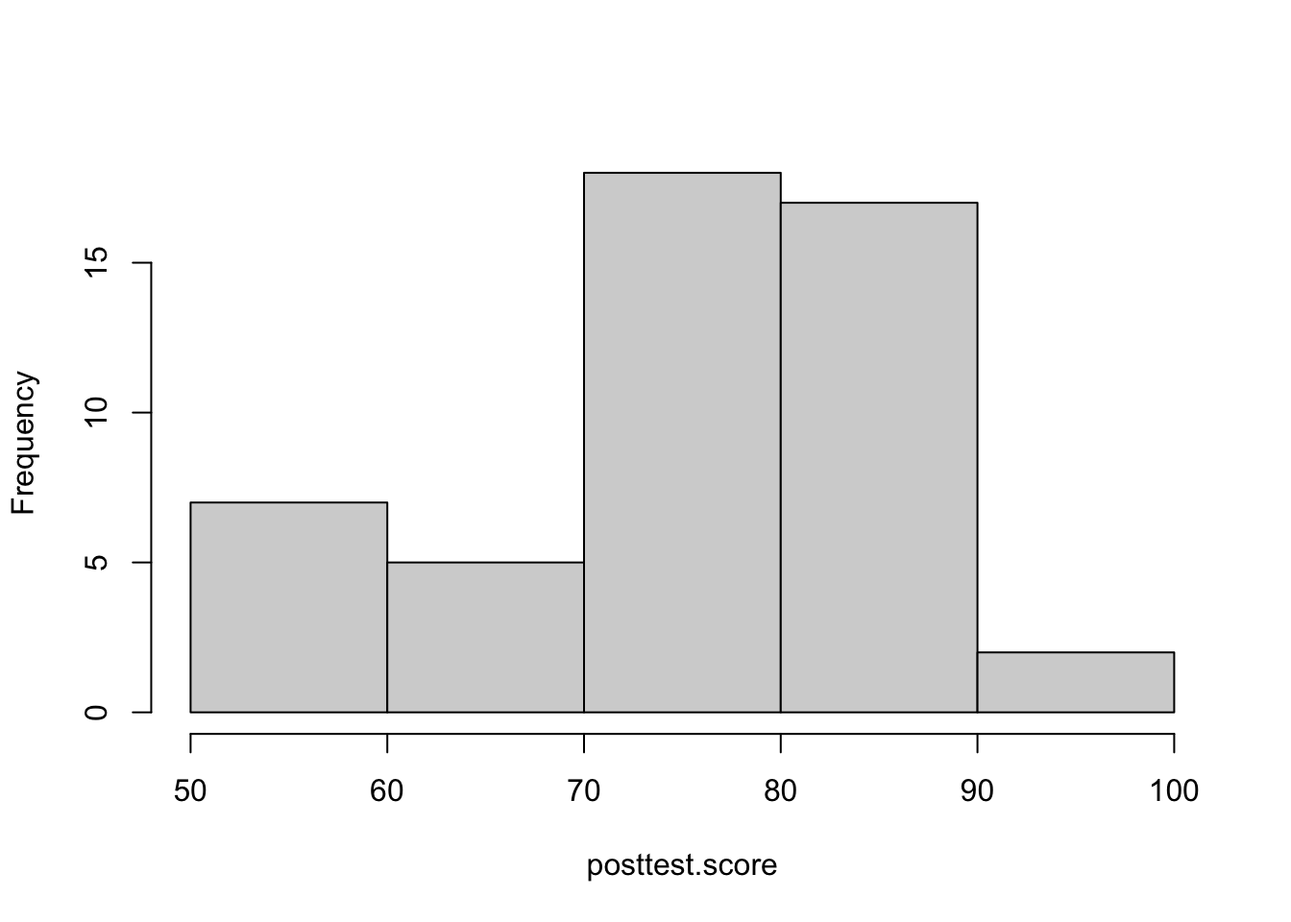
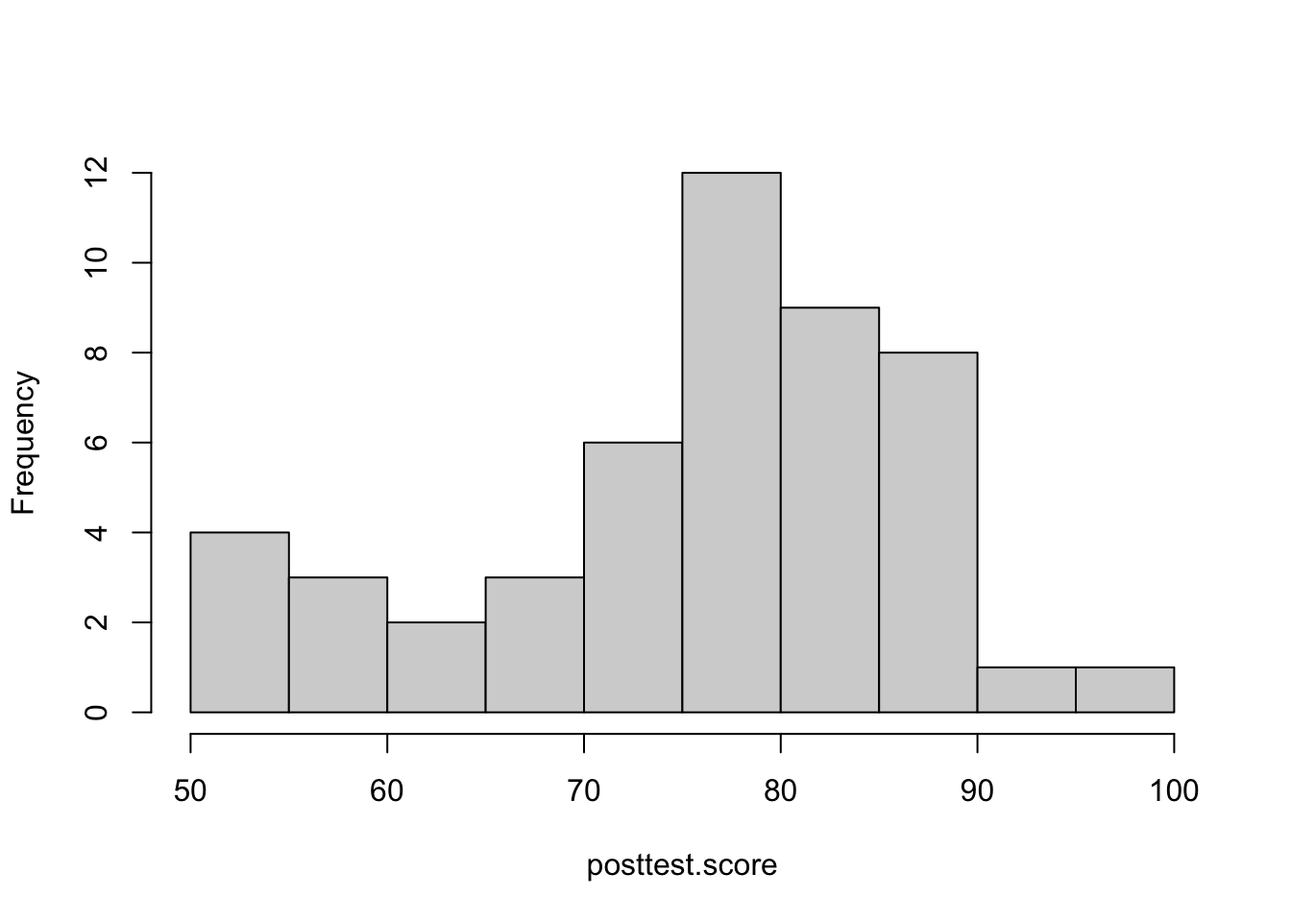
w9

diff --git a/docs/Biomedical/Research Methodology/wrangling.html b/docs/Biomedical/Research Methodology/wrangling.html
@@ -849,7 +849,7 @@ window.Quarto = {
   <li><a href="#stages-of-data-wrangling" id="toc-stages-of-data-wrangling" class="nav-link" data-scroll-target="#stages-of-data-wrangling">Stages of data wrangling</a></li>
   <li><a href="#process-of-wrangling" id="toc-process-of-wrangling" class="nav-link" data-scroll-target="#process-of-wrangling">Process of wrangling</a></li>
   <li><a href="#summary-of-data" id="toc-summary-of-data" class="nav-link" data-scroll-target="#summary-of-data">Summary of data</a></li>
-  <li><a href="#check-for-normality" id="toc-check-for-normality" class="nav-link" data-scroll-target="#check-for-normality">Check for normality</a></li>
+  <li><a href="#check-for-normality-visually" id="toc-check-for-normality-visually" class="nav-link" data-scroll-target="#check-for-normality-visually">Check for normality visually</a></li>
   <li><a href="#test-for-normality" id="toc-test-for-normality" class="nav-link" data-scroll-target="#test-for-normality">Test for normality</a></li>
   <li><a href="#welch-t-test" id="toc-welch-t-test" class="nav-link" data-scroll-target="#welch-t-test">Welch t test</a></li>
   <li><a href="#shapiro-test-for-total.likert" id="toc-shapiro-test-for-total.likert" class="nav-link" data-scroll-target="#shapiro-test-for-total.likert">Shapiro test for total.likert</a></li>
@@ -1885,63 +1885,43 @@ Record
 <div class="cell">
 <details class="code-fold">
 <summary>Code</summary>
-<div class="sourceCode cell-code" id="cb40"><pre class="sourceCode r code-with-copy"><code class="sourceCode r"><span id="cb40-1"><a href="#cb40-1" aria-hidden="true" tabindex="-1"></a><span class="fu">summary</span>(fdt)</span></code><button title="Copy to Clipboard" class="code-copy-button"><i class="bi"></i></button></pre></div>
-</details>
-<div class="cell-output cell-output-stdout">
-<pre><code>   identifier    type.class posttest.score   pretest.score    total.likert  
- PHY1   : 1   physical:24   Min.   : 50.00   Min.   : 0.00   Min.   :3.100  
- PHY10  : 1   virtual :25   1st Qu.: 75.00   1st Qu.:20.00   1st Qu.:3.500  
- PHY11  : 1                 Median : 80.00   Median :40.00   Median :3.700  
- PHY12  : 1                 Mean   : 78.06   Mean   :41.63   Mean   :3.665  
- PHY13  : 1                 3rd Qu.: 85.00   3rd Qu.:60.00   3rd Qu.:3.800  
- PHY14  : 1                 Max.   :100.00   Max.   :80.00   Max.   :4.100  
- (Other):43                                                                 
- sex   
- 1:18  
- 2:31  
-       
-       
-       
-       
-       </code></pre>
-</div>
-<details class="code-fold">
-<summary>Code</summary>
-<div class="sourceCode cell-code" id="cb42"><pre class="sourceCode r code-with-copy"><code class="sourceCode r"><span id="cb42-1"><a href="#cb42-1" aria-hidden="true" tabindex="-1"></a><span class="fu">attach</span>(fdt)</span>
-<span id="cb42-2"><a href="#cb42-2" aria-hidden="true" tabindex="-1"></a>mean.score<span class="ot">=</span> fdt[,<span class="fu">mean</span>(posttest.score),by<span class="ot">=</span>type.class]</span>
-<span id="cb42-3"><a href="#cb42-3" aria-hidden="true" tabindex="-1"></a>mean.pre.score<span class="ot">=</span> fdt[,<span class="fu">mean</span>(pretest.score),by<span class="ot">=</span>type.class]</span>
-<span id="cb42-4"><a href="#cb42-4" aria-hidden="true" tabindex="-1"></a>mean.likert<span class="ot">=</span> fdt[,<span class="fu">mean</span>(total.likert),by<span class="ot">=</span>type.class]</span>
-<span id="cb42-5"><a href="#cb42-5" aria-hidden="true" tabindex="-1"></a>mean.pre.score</span></code><button title="Copy to Clipboard" class="code-copy-button"><i class="bi"></i></button></pre></div>
-</details>
-<div class="cell-output cell-output-stdout">
-<pre><code>   type.class       V1
-       &lt;fctr&gt;    &lt;num&gt;
-1:    virtual 47.20000
-2:   physical 35.83333</code></pre>
-</div>
-<details class="code-fold">
-<summary>Code</summary>
-<div class="sourceCode cell-code" id="cb44"><pre class="sourceCode r code-with-copy"><code class="sourceCode r"><span id="cb44-1"><a href="#cb44-1" aria-hidden="true" tabindex="-1"></a>mean.score</span></code><button title="Copy to Clipboard" class="code-copy-button"><i class="bi"></i></button></pre></div>
-</details>
-<div class="cell-output cell-output-stdout">
-<pre><code>   type.class       V1
-       &lt;fctr&gt;    &lt;num&gt;
-1:    virtual 78.20000
-2:   physical 77.91667</code></pre>
-</div>
-<details class="code-fold">
-<summary>Code</summary>
-<div class="sourceCode cell-code" id="cb46"><pre class="sourceCode r code-with-copy"><code class="sourceCode r"><span id="cb46-1"><a href="#cb46-1" aria-hidden="true" tabindex="-1"></a>mean.likert</span></code><button title="Copy to Clipboard" class="code-copy-button"><i class="bi"></i></button></pre></div>
-</details>
-<div class="cell-output cell-output-stdout">
-<pre><code>   type.class       V1
-       &lt;fctr&gt;    &lt;num&gt;
-1:    virtual 3.504000
-2:   physical 3.833333</code></pre>
-</div>
-<details class="code-fold">
-<summary>Code</summary>
-<div class="sourceCode cell-code" id="cb48"><pre class="sourceCode r code-with-copy"><code class="sourceCode r"><span id="cb48-1"><a href="#cb48-1" aria-hidden="true" tabindex="-1"></a><span class="fu">boxplot</span>(posttest.score<span class="sc">~</span>type.class)</span></code><button title="Copy to Clipboard" class="code-copy-button"><i class="bi"></i></button></pre></div>
+<div class="sourceCode cell-code" id="cb40"><pre class="sourceCode r code-with-copy"><code class="sourceCode r"><span id="cb40-1"><a href="#cb40-1" aria-hidden="true" tabindex="-1"></a><span class="fu">summary</span>(fdt)</span>
+<span id="cb40-2"><a href="#cb40-2" aria-hidden="true" tabindex="-1"></a><span class="do">##    identifier    type.class posttest.score   pretest.score    total.likert  </span></span>
+<span id="cb40-3"><a href="#cb40-3" aria-hidden="true" tabindex="-1"></a><span class="do">##  PHY1   : 1   physical:24   Min.   : 50.00   Min.   : 0.00   Min.   :3.100  </span></span>
+<span id="cb40-4"><a href="#cb40-4" aria-hidden="true" tabindex="-1"></a><span class="do">##  PHY10  : 1   virtual :25   1st Qu.: 75.00   1st Qu.:20.00   1st Qu.:3.500  </span></span>
+<span id="cb40-5"><a href="#cb40-5" aria-hidden="true" tabindex="-1"></a><span class="do">##  PHY11  : 1                 Median : 80.00   Median :40.00   Median :3.700  </span></span>
+<span id="cb40-6"><a href="#cb40-6" aria-hidden="true" tabindex="-1"></a><span class="do">##  PHY12  : 1                 Mean   : 78.06   Mean   :41.63   Mean   :3.665  </span></span>
+<span id="cb40-7"><a href="#cb40-7" aria-hidden="true" tabindex="-1"></a><span class="do">##  PHY13  : 1                 3rd Qu.: 85.00   3rd Qu.:60.00   3rd Qu.:3.800  </span></span>
+<span id="cb40-8"><a href="#cb40-8" aria-hidden="true" tabindex="-1"></a><span class="do">##  PHY14  : 1                 Max.   :100.00   Max.   :80.00   Max.   :4.100  </span></span>
+<span id="cb40-9"><a href="#cb40-9" aria-hidden="true" tabindex="-1"></a><span class="do">##  (Other):43                                                                 </span></span>
+<span id="cb40-10"><a href="#cb40-10" aria-hidden="true" tabindex="-1"></a><span class="do">##  sex   </span></span>
+<span id="cb40-11"><a href="#cb40-11" aria-hidden="true" tabindex="-1"></a><span class="do">##  1:18  </span></span>
+<span id="cb40-12"><a href="#cb40-12" aria-hidden="true" tabindex="-1"></a><span class="do">##  2:31  </span></span>
+<span id="cb40-13"><a href="#cb40-13" aria-hidden="true" tabindex="-1"></a><span class="do">##        </span></span>
+<span id="cb40-14"><a href="#cb40-14" aria-hidden="true" tabindex="-1"></a><span class="do">##        </span></span>
+<span id="cb40-15"><a href="#cb40-15" aria-hidden="true" tabindex="-1"></a><span class="do">##        </span></span>
+<span id="cb40-16"><a href="#cb40-16" aria-hidden="true" tabindex="-1"></a><span class="do">##        </span></span>
+<span id="cb40-17"><a href="#cb40-17" aria-hidden="true" tabindex="-1"></a><span class="do">## </span></span>
+<span id="cb40-18"><a href="#cb40-18" aria-hidden="true" tabindex="-1"></a><span class="fu">attach</span>(fdt)</span>
+<span id="cb40-19"><a href="#cb40-19" aria-hidden="true" tabindex="-1"></a>mean.score<span class="ot">=</span> fdt[,<span class="fu">mean</span>(posttest.score),by<span class="ot">=</span>type.class]</span>
+<span id="cb40-20"><a href="#cb40-20" aria-hidden="true" tabindex="-1"></a>mean.pre.score<span class="ot">=</span> fdt[,<span class="fu">mean</span>(pretest.score),by<span class="ot">=</span>type.class]</span>
+<span id="cb40-21"><a href="#cb40-21" aria-hidden="true" tabindex="-1"></a>mean.likert<span class="ot">=</span> fdt[,<span class="fu">mean</span>(total.likert),by<span class="ot">=</span>type.class]</span>
+<span id="cb40-22"><a href="#cb40-22" aria-hidden="true" tabindex="-1"></a>mean.pre.score</span>
+<span id="cb40-23"><a href="#cb40-23" aria-hidden="true" tabindex="-1"></a><span class="do">##    type.class       V1</span></span>
+<span id="cb40-24"><a href="#cb40-24" aria-hidden="true" tabindex="-1"></a><span class="do">##        &lt;fctr&gt;    &lt;num&gt;</span></span>
+<span id="cb40-25"><a href="#cb40-25" aria-hidden="true" tabindex="-1"></a><span class="do">## 1:    virtual 47.20000</span></span>
+<span id="cb40-26"><a href="#cb40-26" aria-hidden="true" tabindex="-1"></a><span class="do">## 2:   physical 35.83333</span></span>
+<span id="cb40-27"><a href="#cb40-27" aria-hidden="true" tabindex="-1"></a>mean.score</span>
+<span id="cb40-28"><a href="#cb40-28" aria-hidden="true" tabindex="-1"></a><span class="do">##    type.class       V1</span></span>
+<span id="cb40-29"><a href="#cb40-29" aria-hidden="true" tabindex="-1"></a><span class="do">##        &lt;fctr&gt;    &lt;num&gt;</span></span>
+<span id="cb40-30"><a href="#cb40-30" aria-hidden="true" tabindex="-1"></a><span class="do">## 1:    virtual 78.20000</span></span>
+<span id="cb40-31"><a href="#cb40-31" aria-hidden="true" tabindex="-1"></a><span class="do">## 2:   physical 77.91667</span></span>
+<span id="cb40-32"><a href="#cb40-32" aria-hidden="true" tabindex="-1"></a>mean.likert</span>
+<span id="cb40-33"><a href="#cb40-33" aria-hidden="true" tabindex="-1"></a><span class="do">##    type.class       V1</span></span>
+<span id="cb40-34"><a href="#cb40-34" aria-hidden="true" tabindex="-1"></a><span class="do">##        &lt;fctr&gt;    &lt;num&gt;</span></span>
+<span id="cb40-35"><a href="#cb40-35" aria-hidden="true" tabindex="-1"></a><span class="do">## 1:    virtual 3.504000</span></span>
+<span id="cb40-36"><a href="#cb40-36" aria-hidden="true" tabindex="-1"></a><span class="do">## 2:   physical 3.833333</span></span>
+<span id="cb40-37"><a href="#cb40-37" aria-hidden="true" tabindex="-1"></a><span class="fu">boxplot</span>(posttest.score<span class="sc">~</span>type.class)</span></code><button title="Copy to Clipboard" class="code-copy-button"><i class="bi"></i></button></pre></div>
 </details>
 <div class="cell-output-display">
 <div>
@@ -1952,7 +1932,7 @@ Record
 </div>
 <details class="code-fold">
 <summary>Code</summary>
-<div class="sourceCode cell-code" id="cb49"><pre class="sourceCode r code-with-copy"><code class="sourceCode r"><span id="cb49-1"><a href="#cb49-1" aria-hidden="true" tabindex="-1"></a><span class="fu">boxplot</span>(pretest.score<span class="sc">~</span>type.class)</span></code><button title="Copy to Clipboard" class="code-copy-button"><i class="bi"></i></button></pre></div>
+<div class="sourceCode cell-code" id="cb41"><pre class="sourceCode r code-with-copy"><code class="sourceCode r"><span id="cb41-1"><a href="#cb41-1" aria-hidden="true" tabindex="-1"></a><span class="fu">boxplot</span>(pretest.score<span class="sc">~</span>type.class)</span></code><button title="Copy to Clipboard" class="code-copy-button"><i class="bi"></i></button></pre></div>
 </details>
 <div class="cell-output-display">
 <div>
@@ -1963,7 +1943,7 @@ Record
 </div>
 <details class="code-fold">
 <summary>Code</summary>
-<div class="sourceCode cell-code" id="cb50"><pre class="sourceCode r code-with-copy"><code class="sourceCode r"><span id="cb50-1"><a href="#cb50-1" aria-hidden="true" tabindex="-1"></a><span class="fu">boxplot</span>(total.likert<span class="sc">~</span>type.class)</span></code><button title="Copy to Clipboard" class="code-copy-button"><i class="bi"></i></button></pre></div>
+<div class="sourceCode cell-code" id="cb42"><pre class="sourceCode r code-with-copy"><code class="sourceCode r"><span id="cb42-1"><a href="#cb42-1" aria-hidden="true" tabindex="-1"></a><span class="fu">boxplot</span>(total.likert<span class="sc">~</span>type.class)</span></code><button title="Copy to Clipboard" class="code-copy-button"><i class="bi"></i></button></pre></div>
 </details>
 <div class="cell-output-display">
 <div>
@@ -1974,7 +1954,7 @@ Record
 </div>
 <details class="code-fold">
 <summary>Code</summary>
-<div class="sourceCode cell-code" id="cb51"><pre class="sourceCode r code-with-copy"><code class="sourceCode r"><span id="cb51-1"><a href="#cb51-1" aria-hidden="true" tabindex="-1"></a><span class="fu">boxplot</span>(total.likert<span class="sc">~</span>sex)</span></code><button title="Copy to Clipboard" class="code-copy-button"><i class="bi"></i></button></pre></div>
+<div class="sourceCode cell-code" id="cb43"><pre class="sourceCode r code-with-copy"><code class="sourceCode r"><span id="cb43-1"><a href="#cb43-1" aria-hidden="true" tabindex="-1"></a><span class="fu">boxplot</span>(total.likert<span class="sc">~</span>sex)</span></code><button title="Copy to Clipboard" class="code-copy-button"><i class="bi"></i></button></pre></div>
 </details>
 <div class="cell-output-display">
 <div>
@@ -1985,14 +1965,14 @@ Record
 </div>
 </div>
 </section>
-<section id="check-for-normality" class="level3">
-<h3 class="anchored" data-anchor-id="check-for-normality">Check for normality</h3>
-<div class="sourceCode" id="cb52"><pre class="sourceCode r code-with-copy"><code class="sourceCode r"><span id="cb52-1"><a href="#cb52-1" aria-hidden="true" tabindex="-1"></a><span class="fu">hist</span>(posttest.score, <span class="at">main =</span> <span class="st">""</span>)</span>
-<span id="cb52-2"><a href="#cb52-2" aria-hidden="true" tabindex="-1"></a><span class="fu">hist</span>(total.likert, <span class="at">main=</span><span class="st">""</span>)</span></code><button title="Copy to Clipboard" class="code-copy-button"><i class="bi"></i></button></pre></div>
+<section id="check-for-normality-visually" class="level3">
+<h3 class="anchored" data-anchor-id="check-for-normality-visually">Check for normality visually</h3>
+<div class="sourceCode" id="cb44"><pre class="sourceCode r code-with-copy"><code class="sourceCode r"><span id="cb44-1"><a href="#cb44-1" aria-hidden="true" tabindex="-1"></a><span class="fu">hist</span>(posttest.score, <span class="at">main =</span> <span class="st">""</span>,<span class="at">breaks =</span> <span class="dv">15</span>)</span>
+<span id="cb44-2"><a href="#cb44-2" aria-hidden="true" tabindex="-1"></a><span class="fu">hist</span>(total.likert, <span class="at">main=</span><span class="st">""</span>,<span class="at">breaks =</span> <span class="dv">10</span>)</span></code><button title="Copy to Clipboard" class="code-copy-button"><i class="bi"></i></button></pre></div>
 <div class="cell">
 <details class="code-fold">
 <summary>Code</summary>
-<div class="sourceCode cell-code" id="cb53"><pre class="sourceCode r code-with-copy"><code class="sourceCode r"><span id="cb53-1"><a href="#cb53-1" aria-hidden="true" tabindex="-1"></a><span class="fu">hist</span>(posttest.score, <span class="at">main =</span> <span class="st">""</span>)</span></code><button title="Copy to Clipboard" class="code-copy-button"><i class="bi"></i></button></pre></div>
+<div class="sourceCode cell-code" id="cb45"><pre class="sourceCode r code-with-copy"><code class="sourceCode r"><span id="cb45-1"><a href="#cb45-1" aria-hidden="true" tabindex="-1"></a><span class="fu">hist</span>(posttest.score, <span class="at">main =</span> <span class="st">""</span>,<span class="at">breaks =</span> <span class="dv">15</span>)</span></code><button title="Copy to Clipboard" class="code-copy-button"><i class="bi"></i></button></pre></div>
 </details>
 <div class="cell-output-display">
 <div>
@@ -2003,7 +1983,7 @@ Record
 </div>
 <details class="code-fold">
 <summary>Code</summary>
-<div class="sourceCode cell-code" id="cb54"><pre class="sourceCode r code-with-copy"><code class="sourceCode r"><span id="cb54-1"><a href="#cb54-1" aria-hidden="true" tabindex="-1"></a><span class="fu">hist</span>(total.likert, <span class="at">main=</span><span class="st">""</span>)</span></code><button title="Copy to Clipboard" class="code-copy-button"><i class="bi"></i></button></pre></div>
+<div class="sourceCode cell-code" id="cb46"><pre class="sourceCode r code-with-copy"><code class="sourceCode r"><span id="cb46-1"><a href="#cb46-1" aria-hidden="true" tabindex="-1"></a><span class="fu">hist</span>(total.likert, <span class="at">main=</span><span class="st">""</span>,<span class="at">breaks =</span> <span class="dv">10</span>)</span></code><button title="Copy to Clipboard" class="code-copy-button"><i class="bi"></i></button></pre></div>
 </details>
 <div class="cell-output-display">
 <div>
@@ -2017,97 +1997,92 @@ Record
 </section>
 <section id="test-for-normality" class="level3">
 <h3 class="anchored" data-anchor-id="test-for-normality">Test for normality</h3>
+<div class="sourceCode" id="cb47"><pre class="sourceCode r code-with-copy"><code class="sourceCode r"><span id="cb47-1"><a href="#cb47-1" aria-hidden="true" tabindex="-1"></a><span class="fu">shapiro.test</span>(posttest.score)</span></code><button title="Copy to Clipboard" class="code-copy-button"><i class="bi"></i></button></pre></div>
 <div class="cell">
 <details class="code-fold">
 <summary>Code</summary>
-<div class="sourceCode cell-code" id="cb55"><pre class="sourceCode r code-with-copy"><code class="sourceCode r"><span id="cb55-1"><a href="#cb55-1" aria-hidden="true" tabindex="-1"></a><span class="fu">shapiro.test</span>(posttest.score)</span></code><button title="Copy to Clipboard" class="code-copy-button"><i class="bi"></i></button></pre></div>
+<div class="sourceCode cell-code" id="cb48"><pre class="sourceCode r code-with-copy"><code class="sourceCode r"><span id="cb48-1"><a href="#cb48-1" aria-hidden="true" tabindex="-1"></a><span class="fu">shapiro.test</span>(posttest.score)</span>
+<span id="cb48-2"><a href="#cb48-2" aria-hidden="true" tabindex="-1"></a><span class="do">## </span></span>
+<span id="cb48-3"><a href="#cb48-3" aria-hidden="true" tabindex="-1"></a><span class="do">##  Shapiro-Wilk normality test</span></span>
+<span id="cb48-4"><a href="#cb48-4" aria-hidden="true" tabindex="-1"></a><span class="do">## </span></span>
+<span id="cb48-5"><a href="#cb48-5" aria-hidden="true" tabindex="-1"></a><span class="do">## data:  posttest.score</span></span>
+<span id="cb48-6"><a href="#cb48-6" aria-hidden="true" tabindex="-1"></a><span class="do">## W = 0.92716, p-value = 0.004812</span></span></code><button title="Copy to Clipboard" class="code-copy-button"><i class="bi"></i></button></pre></div>
 </details>
-<div class="cell-output cell-output-stdout">
-<pre><code>
-    Shapiro-Wilk normality test
-
-data:  posttest.score
-W = 0.92716, p-value = 0.004812</code></pre>
-</div>
 </div>
 <p>a <code>p value</code> of &lt;.005 suggest that posttest score is significantly not normal.</p>
 </section>
 <section id="welch-t-test" class="level3">
 <h3 class="anchored" data-anchor-id="welch-t-test">Welch t test</h3>
 <p>As data is not normal, we have to do modified t test.</p>
+<div class="sourceCode" id="cb49"><pre class="sourceCode r code-with-copy"><code class="sourceCode r"><span id="cb49-1"><a href="#cb49-1" aria-hidden="true" tabindex="-1"></a><span class="fu">t.test</span>(posttest.score,pretest.score,<span class="at">var.equal=</span><span class="cn">FALSE</span>)</span></code><button title="Copy to Clipboard" class="code-copy-button"><i class="bi"></i></button></pre></div>
 <div class="cell">
 <details class="code-fold">
 <summary>Code</summary>
-<div class="sourceCode cell-code" id="cb57"><pre class="sourceCode r code-with-copy"><code class="sourceCode r"><span id="cb57-1"><a href="#cb57-1" aria-hidden="true" tabindex="-1"></a><span class="fu">t.test</span>(posttest.score,pretest.score,<span class="at">var.equal=</span><span class="cn">FALSE</span>)</span></code><button title="Copy to Clipboard" class="code-copy-button"><i class="bi"></i></button></pre></div>
+<div class="sourceCode cell-code" id="cb50"><pre class="sourceCode r code-with-copy"><code class="sourceCode r"><span id="cb50-1"><a href="#cb50-1" aria-hidden="true" tabindex="-1"></a><span class="fu">t.test</span>(posttest.score,pretest.score,<span class="at">var.equal=</span><span class="cn">FALSE</span>)</span>
+<span id="cb50-2"><a href="#cb50-2" aria-hidden="true" tabindex="-1"></a><span class="do">## </span></span>
+<span id="cb50-3"><a href="#cb50-3" aria-hidden="true" tabindex="-1"></a><span class="do">##  Welch Two Sample t-test</span></span>
+<span id="cb50-4"><a href="#cb50-4" aria-hidden="true" tabindex="-1"></a><span class="do">## </span></span>
+<span id="cb50-5"><a href="#cb50-5" aria-hidden="true" tabindex="-1"></a><span class="do">## data:  posttest.score and pretest.score</span></span>
+<span id="cb50-6"><a href="#cb50-6" aria-hidden="true" tabindex="-1"></a><span class="do">## t = 10.032, df = 71.146, p-value = 2.929e-15</span></span>
+<span id="cb50-7"><a href="#cb50-7" aria-hidden="true" tabindex="-1"></a><span class="do">## alternative hypothesis: true difference in means is not equal to 0</span></span>
+<span id="cb50-8"><a href="#cb50-8" aria-hidden="true" tabindex="-1"></a><span class="do">## 95 percent confidence interval:</span></span>
+<span id="cb50-9"><a href="#cb50-9" aria-hidden="true" tabindex="-1"></a><span class="do">##  29.18870 43.66845</span></span>
+<span id="cb50-10"><a href="#cb50-10" aria-hidden="true" tabindex="-1"></a><span class="do">## sample estimates:</span></span>
+<span id="cb50-11"><a href="#cb50-11" aria-hidden="true" tabindex="-1"></a><span class="do">## mean of x mean of y </span></span>
+<span id="cb50-12"><a href="#cb50-12" aria-hidden="true" tabindex="-1"></a><span class="do">##  78.06122  41.63265</span></span></code><button title="Copy to Clipboard" class="code-copy-button"><i class="bi"></i></button></pre></div>
 </details>
-<div class="cell-output cell-output-stdout">
-<pre><code>
-    Welch Two Sample t-test
-
-data:  posttest.score and pretest.score
-t = 10.032, df = 71.146, p-value = 2.929e-15
-alternative hypothesis: true difference in means is not equal to 0
-95 percent confidence interval:
- 29.18870 43.66845
-sample estimates:
-mean of x mean of y 
- 78.06122  41.63265 </code></pre>
 </div>
-</div>
+<div class="sourceCode" id="cb51"><pre class="sourceCode r code-with-copy"><code class="sourceCode r"><span id="cb51-1"><a href="#cb51-1" aria-hidden="true" tabindex="-1"></a><span class="fu">t.test</span>(posttest.score<span class="sc">~</span>type.class,<span class="at">var.equal=</span><span class="cn">FALSE</span>)</span></code><button title="Copy to Clipboard" class="code-copy-button"><i class="bi"></i></button></pre></div>
 <div class="cell">
 <details class="code-fold">
 <summary>Code</summary>
-<div class="sourceCode cell-code" id="cb59"><pre class="sourceCode r code-with-copy"><code class="sourceCode r"><span id="cb59-1"><a href="#cb59-1" aria-hidden="true" tabindex="-1"></a><span class="fu">t.test</span>(posttest.score<span class="sc">~</span>type.class,<span class="at">var.equal=</span><span class="cn">FALSE</span>)</span></code><button title="Copy to Clipboard" class="code-copy-button"><i class="bi"></i></button></pre></div>
+<div class="sourceCode cell-code" id="cb52"><pre class="sourceCode r code-with-copy"><code class="sourceCode r"><span id="cb52-1"><a href="#cb52-1" aria-hidden="true" tabindex="-1"></a><span class="fu">t.test</span>(posttest.score<span class="sc">~</span>type.class,<span class="at">var.equal=</span><span class="cn">FALSE</span>)</span>
+<span id="cb52-2"><a href="#cb52-2" aria-hidden="true" tabindex="-1"></a><span class="do">## </span></span>
+<span id="cb52-3"><a href="#cb52-3" aria-hidden="true" tabindex="-1"></a><span class="do">##  Welch Two Sample t-test</span></span>
+<span id="cb52-4"><a href="#cb52-4" aria-hidden="true" tabindex="-1"></a><span class="do">## </span></span>
+<span id="cb52-5"><a href="#cb52-5" aria-hidden="true" tabindex="-1"></a><span class="do">## data:  posttest.score by type.class</span></span>
+<span id="cb52-6"><a href="#cb52-6" aria-hidden="true" tabindex="-1"></a><span class="do">## t = -0.085737, df = 45.72, p-value = 0.932</span></span>
+<span id="cb52-7"><a href="#cb52-7" aria-hidden="true" tabindex="-1"></a><span class="do">## alternative hypothesis: true difference in means between group physical and group virtual is not equal to 0</span></span>
+<span id="cb52-8"><a href="#cb52-8" aria-hidden="true" tabindex="-1"></a><span class="do">## 95 percent confidence interval:</span></span>
+<span id="cb52-9"><a href="#cb52-9" aria-hidden="true" tabindex="-1"></a><span class="do">##  -6.936392  6.369726</span></span>
+<span id="cb52-10"><a href="#cb52-10" aria-hidden="true" tabindex="-1"></a><span class="do">## sample estimates:</span></span>
+<span id="cb52-11"><a href="#cb52-11" aria-hidden="true" tabindex="-1"></a><span class="do">## mean in group physical  mean in group virtual </span></span>
+<span id="cb52-12"><a href="#cb52-12" aria-hidden="true" tabindex="-1"></a><span class="do">##               77.91667               78.20000</span></span></code><button title="Copy to Clipboard" class="code-copy-button"><i class="bi"></i></button></pre></div>
 </details>
-<div class="cell-output cell-output-stdout">
-<pre><code>
-    Welch Two Sample t-test
-
-data:  posttest.score by type.class
-t = -0.085737, df = 45.72, p-value = 0.932
-alternative hypothesis: true difference in means between group physical and group virtual is not equal to 0
-95 percent confidence interval:
- -6.936392  6.369726
-sample estimates:
-mean in group physical  mean in group virtual 
-              77.91667               78.20000 </code></pre>
-</div>
 </div>
 </section>
 <section id="shapiro-test-for-total.likert" class="level3">
 <h3 class="anchored" data-anchor-id="shapiro-test-for-total.likert">Shapiro test for total.likert</h3>
+<div class="sourceCode" id="cb53"><pre class="sourceCode r code-with-copy"><code class="sourceCode r"><span id="cb53-1"><a href="#cb53-1" aria-hidden="true" tabindex="-1"></a><span class="fu">shapiro.test</span>(total.likert)</span></code><button title="Copy to Clipboard" class="code-copy-button"><i class="bi"></i></button></pre></div>
 <div class="cell">
 <details class="code-fold">
 <summary>Code</summary>
-<div class="sourceCode cell-code" id="cb61"><pre class="sourceCode r code-with-copy"><code class="sourceCode r"><span id="cb61-1"><a href="#cb61-1" aria-hidden="true" tabindex="-1"></a><span class="fu">shapiro.test</span>(total.likert)</span></code><button title="Copy to Clipboard" class="code-copy-button"><i class="bi"></i></button></pre></div>
+<div class="sourceCode cell-code" id="cb54"><pre class="sourceCode r code-with-copy"><code class="sourceCode r"><span id="cb54-1"><a href="#cb54-1" aria-hidden="true" tabindex="-1"></a><span class="fu">shapiro.test</span>(total.likert)</span>
+<span id="cb54-2"><a href="#cb54-2" aria-hidden="true" tabindex="-1"></a><span class="do">## </span></span>
+<span id="cb54-3"><a href="#cb54-3" aria-hidden="true" tabindex="-1"></a><span class="do">##  Shapiro-Wilk normality test</span></span>
+<span id="cb54-4"><a href="#cb54-4" aria-hidden="true" tabindex="-1"></a><span class="do">## </span></span>
+<span id="cb54-5"><a href="#cb54-5" aria-hidden="true" tabindex="-1"></a><span class="do">## data:  total.likert</span></span>
+<span id="cb54-6"><a href="#cb54-6" aria-hidden="true" tabindex="-1"></a><span class="do">## W = 0.96471, p-value = 0.1479</span></span></code><button title="Copy to Clipboard" class="code-copy-button"><i class="bi"></i></button></pre></div>
 </details>
-<div class="cell-output cell-output-stdout">
-<pre><code>
-    Shapiro-Wilk normality test
-
-data:  total.likert
-W = 0.96471, p-value = 0.1479</code></pre>
-</div>
 </div>
 <p>Here the shapiro test is not significant. So the data can be taken as normal.</p>
+<div class="sourceCode" id="cb55"><pre class="sourceCode r code-with-copy"><code class="sourceCode r"><span id="cb55-1"><a href="#cb55-1" aria-hidden="true" tabindex="-1"></a><span class="fu">t.test</span>(total.likert<span class="sc">~</span>type.class)</span></code><button title="Copy to Clipboard" class="code-copy-button"><i class="bi"></i></button></pre></div>
 <div class="cell">
 <details class="code-fold">
 <summary>Code</summary>
-<div class="sourceCode cell-code" id="cb63"><pre class="sourceCode r code-with-copy"><code class="sourceCode r"><span id="cb63-1"><a href="#cb63-1" aria-hidden="true" tabindex="-1"></a><span class="fu">t.test</span>(total.likert<span class="sc">~</span>type.class)</span></code><button title="Copy to Clipboard" class="code-copy-button"><i class="bi"></i></button></pre></div>
+<div class="sourceCode cell-code" id="cb56"><pre class="sourceCode r code-with-copy"><code class="sourceCode r"><span id="cb56-1"><a href="#cb56-1" aria-hidden="true" tabindex="-1"></a><span class="fu">t.test</span>(total.likert<span class="sc">~</span>type.class)</span>
+<span id="cb56-2"><a href="#cb56-2" aria-hidden="true" tabindex="-1"></a><span class="do">## </span></span>
+<span id="cb56-3"><a href="#cb56-3" aria-hidden="true" tabindex="-1"></a><span class="do">##  Welch Two Sample t-test</span></span>
+<span id="cb56-4"><a href="#cb56-4" aria-hidden="true" tabindex="-1"></a><span class="do">## </span></span>
+<span id="cb56-5"><a href="#cb56-5" aria-hidden="true" tabindex="-1"></a><span class="do">## data:  total.likert by type.class</span></span>
+<span id="cb56-6"><a href="#cb56-6" aria-hidden="true" tabindex="-1"></a><span class="do">## t = 5.9265, df = 42.974, p-value = 4.686e-07</span></span>
+<span id="cb56-7"><a href="#cb56-7" aria-hidden="true" tabindex="-1"></a><span class="do">## alternative hypothesis: true difference in means between group physical and group virtual is not equal to 0</span></span>
+<span id="cb56-8"><a href="#cb56-8" aria-hidden="true" tabindex="-1"></a><span class="do">## 95 percent confidence interval:</span></span>
+<span id="cb56-9"><a href="#cb56-9" aria-hidden="true" tabindex="-1"></a><span class="do">##  0.2172646 0.4414021</span></span>
+<span id="cb56-10"><a href="#cb56-10" aria-hidden="true" tabindex="-1"></a><span class="do">## sample estimates:</span></span>
+<span id="cb56-11"><a href="#cb56-11" aria-hidden="true" tabindex="-1"></a><span class="do">## mean in group physical  mean in group virtual </span></span>
+<span id="cb56-12"><a href="#cb56-12" aria-hidden="true" tabindex="-1"></a><span class="do">##               3.833333               3.504000</span></span></code><button title="Copy to Clipboard" class="code-copy-button"><i class="bi"></i></button></pre></div>
 </details>
-<div class="cell-output cell-output-stdout">
-<pre><code>
-    Welch Two Sample t-test
-
-data:  total.likert by type.class
-t = 5.9265, df = 42.974, p-value = 4.686e-07
-alternative hypothesis: true difference in means between group physical and group virtual is not equal to 0
-95 percent confidence interval:
- 0.2172646 0.4414021
-sample estimates:
-mean in group physical  mean in group virtual 
-              3.833333               3.504000 </code></pre>
-</div>
 </div>
 
 
